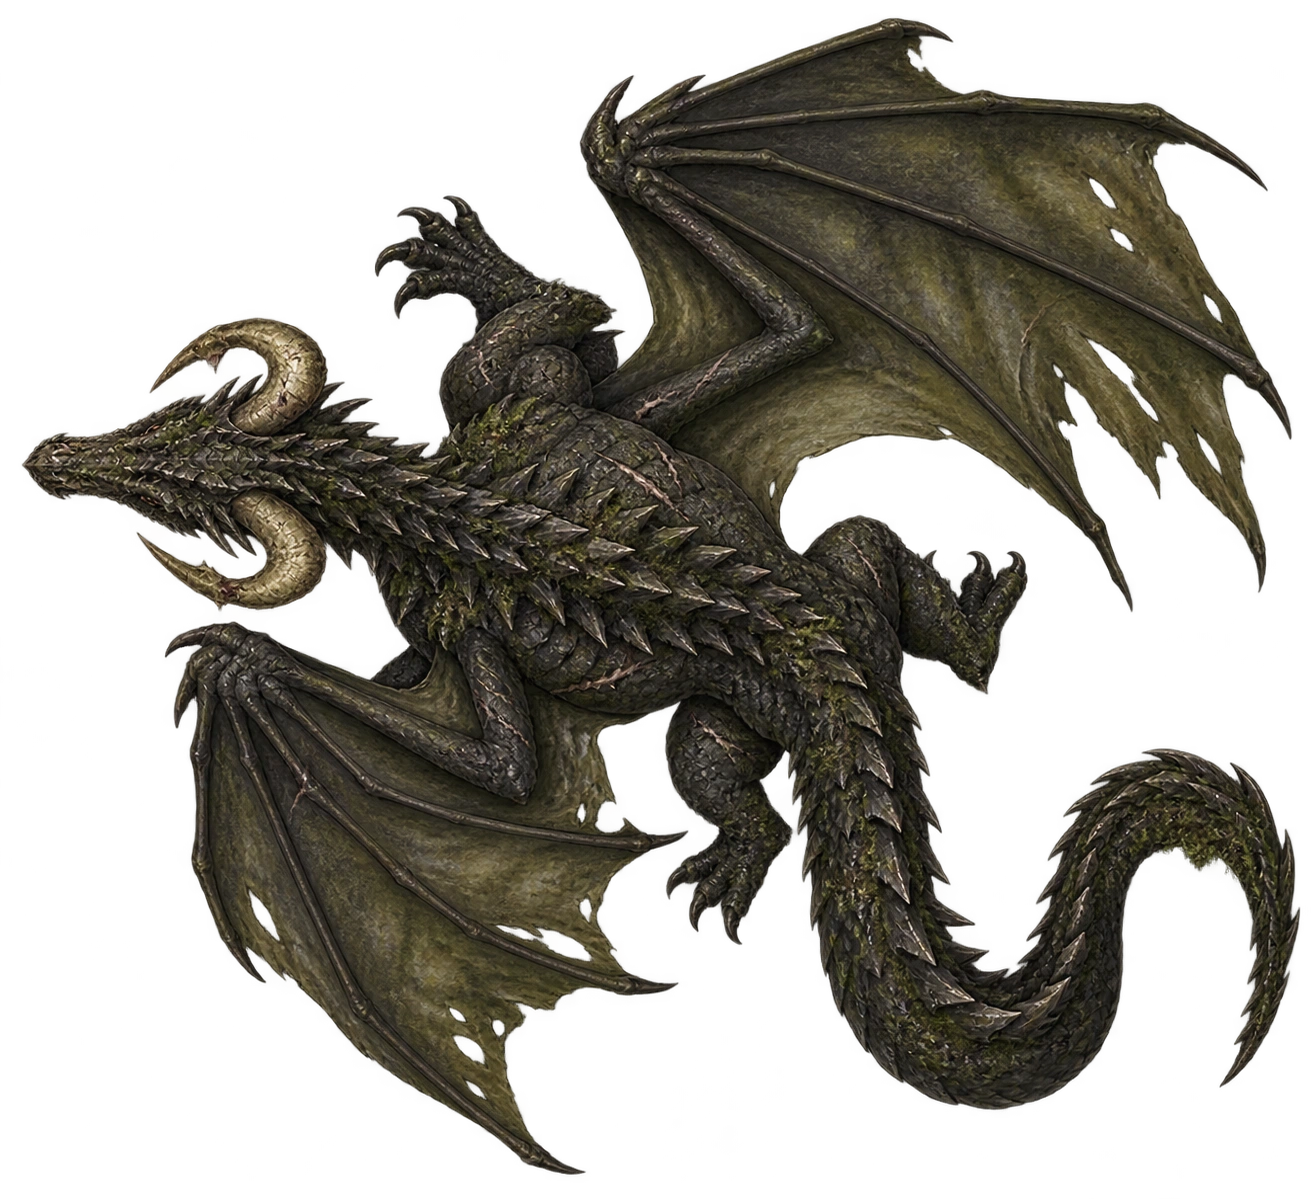
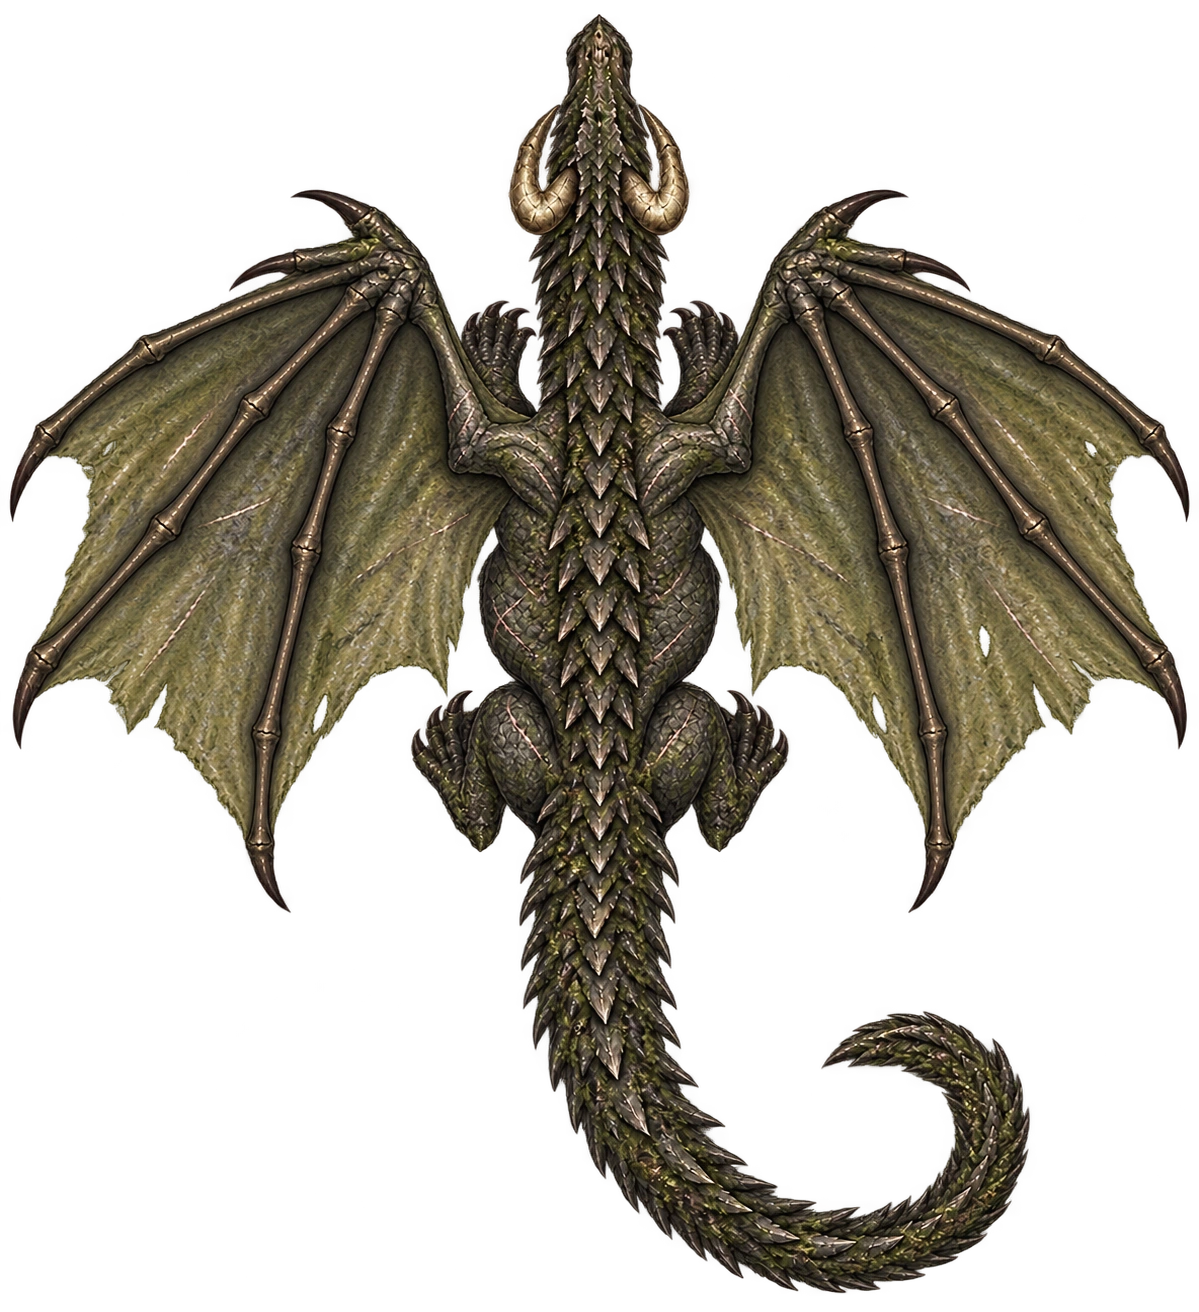
fix(vtt): dorsal dragon wings and continuous Balor whip

diff --git a/docs/CONTEXTO.md b/docs/CONTEXTO.md
@@ -1789,6 +1789,13 @@ Retorno da visão da Ginna (03/10/2026): escolher Não vou machucá-los! fecha a
 
 ## Texto e retrato lado a lado na lore (04/10/2026)
 
+Refino premium adicional de 06/10: negro e bronze anciões reconstruídos com asas
+saindo de raízes dorsais sobre as escápulas; corrente extra do chicote do Balor
+removida. Três artes substituídas, 327 preservadas, 330 no total; prompts e revisão
+visual no manifest privado. O bind mount somente leitura do Compose entrega os
+novos arquivos aos mesmos endpoints sem alterar mesas/fichas. Hashes no container
+e health conferidos. Ver docs/VTT-ACERVO-PREMIUM.md.
+
 Blocos vizinhos de texto e imagem em lados opostos agora formam uma composição de duas colunas, independentemente da ordem. Funciona com Texto livre, Pergaminho, Inscrição e Citação / lenda, em retrato ou meia paisagem. Centro e paisagem inteira mantêm o fluxo individual. Até 600 px, os blocos são empilhados na ordem salva. Prévia e leitura usam a mesma composição; dados existentes preservados. Smoke isolado aprovado nos quatro estilos, ambos os lados, desktop/celular e persistência.
 
 Balcão da loja livre (04/10/2026): removidos bloqueios de colisão/mesa cheia; todos os 71 itens podem ocupar o tampo e ser sobrepostos por arraste ou teclado. Seleção/foco/arraste trazem o objeto à frente com camada estável. Carrinho tem Localizar no balcão para recuperar objetos cobertos. Escalas moderadas por tamanho projetado da ilustração, entre 0,55 e 1,70; joias e frascos menores, armas longas/volumes maiores. Arte separada do alvo mínimo de 48 px preserva diferença visual no celular; sentinela CSS/ResizeObserver alinham render e arraste. Superfície mobile ampliada 32 px no tampo. Quantidades agrupadas, transação de 99 unidades/item e preços preservados. Detalhes em docs/SHOP-LAYOUT.md.
